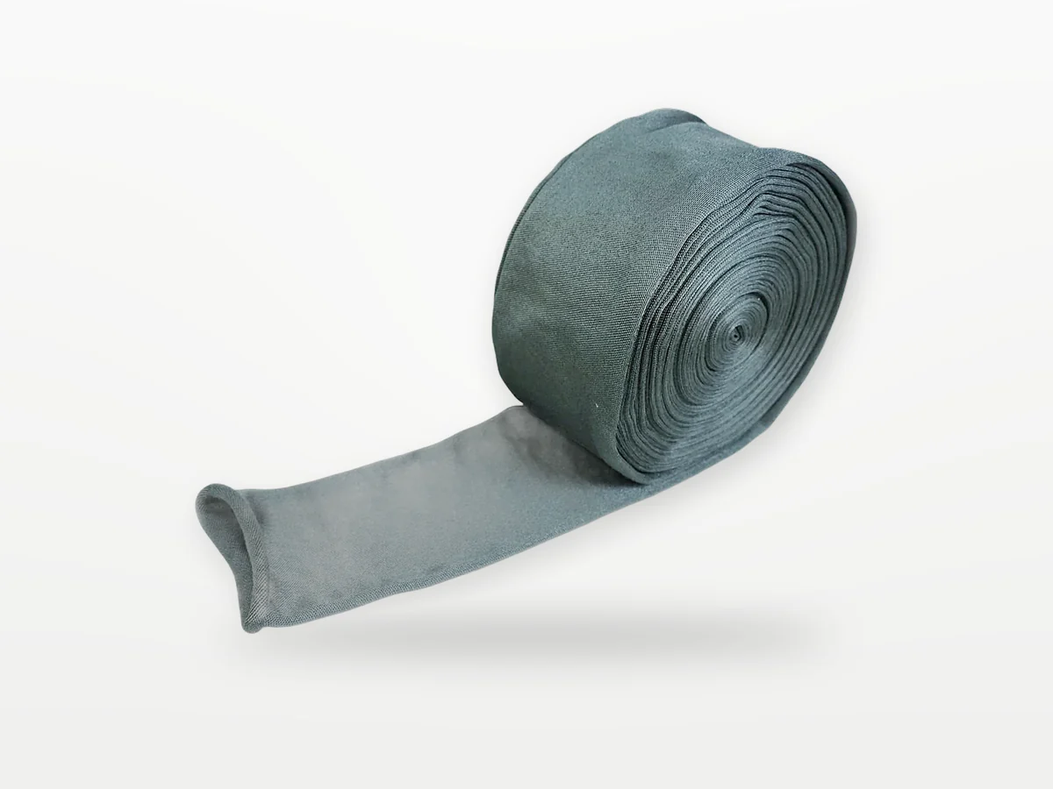
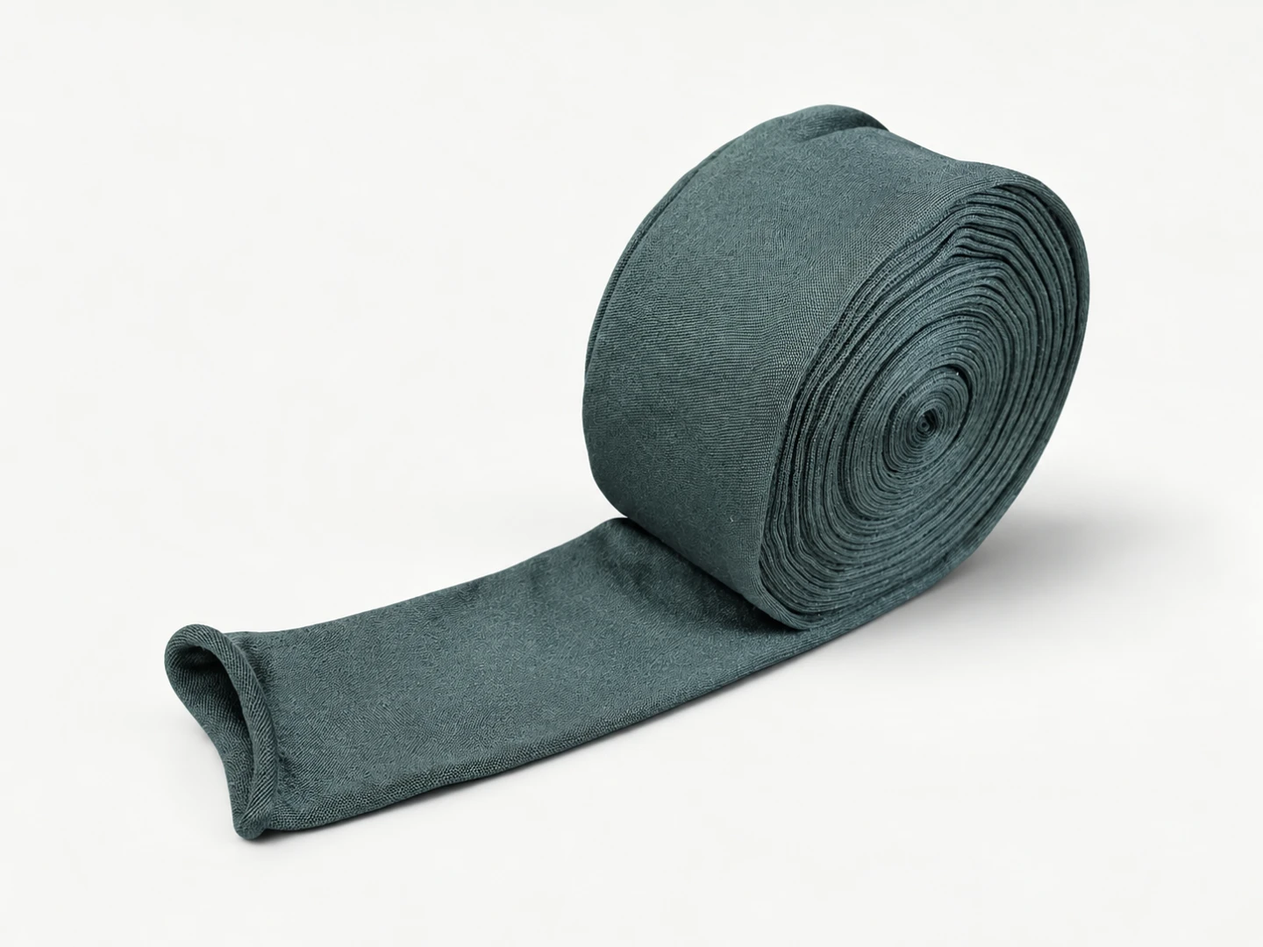
4.0 修改意见：替换 24 张精修产品图，统一背景，任何图框都不裁产品
- 第 2–6、8、9 条：产品图换成基于甲方原图的 image2 精修图（img/pc-*.webp）
- 所有产品图背景校平为统一的 #f6f6f4，图框底色同色，整件显示不裁切
- 首页首屏拼图与内页首屏横幅按实际画幅重做，产品完整、不压标题
- 行业页、文章、选型页里仍在用旧原图的位置一并换成精修图
- 玻璃方案页现场照换成调色后的版本

Claude-Session: https://claude.ai/code/session_012mtddgfNsuUzh6aTvQiDp9

Changed region(s): [[0.1233, 0.0933, 0.925, 0.9022]]

diff --git a/article-5.html b/article-5.html
@@ -10,7 +10,7 @@
 <meta property="og:type" content="website">
 <meta property="og:title" content="玻璃钢化炉上的金属纤维套管，解决的是哪三个问题 | 技术专栏 — 强纶新材">
 <meta property="og:description" content="划伤、掉屑与老化——耐高温包覆材料在玻璃深加工线上的实际价值。">
-<meta property="og:image" content="https://qianglun.netlify.app/img/rd-braid.webp">
+<meta property="og:image" content="https://qianglun.netlify.app/img/pc-thermo-braid.webp">
 <meta property="og:site_name" content="福建强纶新材料股份有限公司">
 <link rel="preconnect" href="https://fonts.googleapis.com">
 <link href="https://fonts.googleapis.com/css2?family=Noto+Sans+SC:wght@300;400;500;700&family=Noto+Serif+SC:wght@500;700;900&family=Cormorant+Garamond:ital,wght@1,500;1,600&family=Barlow+Condensed:wght@300;400;500&display=swap" rel="stylesheet">
@@ -19,7 +19,7 @@
 <link rel="stylesheet" href="theme-v4.css">
 <link rel="stylesheet" href="v5.css">
 
-<script type="application/ld+json">{"@context":"https://schema.org","@type":"TechArticle","headline":"玻璃钢化炉上的金属纤维套管，解决的是哪三个问题","datePublished":"2026-09-05","author":{"@type":"Organization","name":"福建强纶新材料股份有限公司"},"publisher":{"@type":"Organization","name":"福建强纶新材料股份有限公司","logo":{"@type":"ImageObject","url":"https://qianglun.netlify.app/img/logo.png"}},"image":"https://qianglun.netlify.app/img/rd-braid.webp","mainEntityOfPage":"https://qianglun.netlify.app/article-5.html"}</script>
+<script type="application/ld+json">{"@context":"https://schema.org","@type":"TechArticle","headline":"玻璃钢化炉上的金属纤维套管，解决的是哪三个问题","datePublished":"2026-09-05","author":{"@type":"Organization","name":"福建强纶新材料股份有限公司"},"publisher":{"@type":"Organization","name":"福建强纶新材料股份有限公司","logo":{"@type":"ImageObject","url":"https://qianglun.netlify.app/img/logo.png"}},"image":"https://qianglun.netlify.app/img/pc-thermo-braid.webp","mainEntityOfPage":"https://qianglun.netlify.app/article-5.html"}</script>
 </head>
 <body class="go">
 <svg width="0" height="0" style="position:absolute" aria-hidden="true"><defs>
@@ -66,7 +66,7 @@
     <h1>玻璃钢化炉上的金属纤维套管，解决的是哪三个问题</h1>
     <div class="art-meta"><span class="num">2026-09-05</span><i>·</i><span>强纶技术团队</span><i>·</i><span>约 5 分钟</span></div>
   </div>
-  <figure class="art-fig rv"><img src="img/rd-braid.webp" alt="金属纤维编织套管"><figcaption>金属纤维编织套管</figcaption></figure>
+  <figure class="art-fig rv"><img src="img/pc-thermo-braid.webp" alt="金属纤维编织套管"><figcaption>金属纤维编织套管</figcaption></figure>
   <div class="prose art-body rv"><p class="lede">钢化炉里的陶瓷辊道、测温探头、热风管路和钢化齿条，都要长期在高温下和玻璃直接或间接接触。包覆材料选不对，良品率就会在这些接触点上流失。</p></div>
   <div class="prose art-body rv"><h3>问题一：划伤</h3>
 <p>玻璃在高温下表面处于相对软化的状态，任何硬质或粗糙的接触面都可能留下划痕与压印。包覆材料的作用是在接触点之间加一层柔性缓冲。</p>

diff --git a/article-8.html b/article-8.html
@@ -10,7 +10,7 @@
 <meta property="og:type" content="website">
 <meta property="og:title" content="金属纤维烧结毡 vs 金属丝网：强度、精度与再生性 | 技术专栏 — 强纶新材">
 <meta property="og:description" content="两类金属滤材的结构差异，决定了它们各自适合的应用场景边界。">
-<meta property="og:image" content="https://qianglun.netlify.app/img/jlw-felt.webp">
+<meta property="og:image" content="https://qianglun.netlify.app/img/pc-media-felt.webp">
 <meta property="og:site_name" content="福建强纶新材料股份有限公司">
 <link rel="preconnect" href="https://fonts.googleapis.com">
 <link href="https://fonts.googleapis.com/css2?family=Noto+Sans+SC:wght@300;400;500;700&family=Noto+Serif+SC:wght@500;700;900&family=Cormorant+Garamond:ital,wght@1,500;1,600&family=Barlow+Condensed:wght@300;400;500&display=swap" rel="stylesheet">
@@ -19,7 +19,7 @@
 <link rel="stylesheet" href="theme-v4.css">
 <link rel="stylesheet" href="v5.css">
 
-<script type="application/ld+json">{"@context":"https://schema.org","@type":"TechArticle","headline":"金属纤维烧结毡 vs 金属丝网：强度、精度与再生性","datePublished":"2026-07-25","author":{"@type":"Organization","name":"福建强纶新材料股份有限公司"},"publisher":{"@type":"Organization","name":"福建强纶新材料股份有限公司","logo":{"@type":"ImageObject","url":"https://qianglun.netlify.app/img/logo.png"}},"image":"https://qianglun.netlify.app/img/jlw-felt.webp","mainEntityOfPage":"https://qianglun.netlify.app/article-8.html"}</script>
+<script type="application/ld+json">{"@context":"https://schema.org","@type":"TechArticle","headline":"金属纤维烧结毡 vs 金属丝网：强度、精度与再生性","datePublished":"2026-07-25","author":{"@type":"Organization","name":"福建强纶新材料股份有限公司"},"publisher":{"@type":"Organization","name":"福建强纶新材料股份有限公司","logo":{"@type":"ImageObject","url":"https://qianglun.netlify.app/img/logo.png"}},"image":"https://qianglun.netlify.app/img/pc-media-felt.webp","mainEntityOfPage":"https://qianglun.netlify.app/article-8.html"}</script>
 </head>
 <body class="go">
 <svg width="0" height="0" style="position:absolute" aria-hidden="true"><defs>
@@ -66,7 +66,7 @@
     <h1>金属纤维烧结毡 vs 金属丝网：强度、精度与再生性</h1>
     <div class="art-meta"><span class="num">2026-07-25</span><i>·</i><span>强纶技术团队</span><i>·</i><span>约 5 分钟</span></div>
   </div>
-  <figure class="art-fig rv"><img src="img/jlw-felt.webp" alt="金属纤维烧结毡卷材"><figcaption>金属纤维烧结毡卷材</figcaption></figure>
+  <figure class="art-fig rv"><img src="img/pc-media-felt.webp" alt="金属纤维烧结毡卷材"><figcaption>金属纤维烧结毡卷材</figcaption></figure>
   <div class="prose art-body rv"><p class="lede">都是金属、都能耐高温、都能反洗，但烧结毡和烧结丝网是两种完全不同的结构，适合的应用场景也不一样。</p></div>
   <div class="prose art-body rv"><h3>结构上的根本差别</h3>
 <p><strong>金属纤维烧结毡</strong>：由微米级金属纤维无纺成网后，经高温层压烧结而成。内部是三维无序的纤维网络，多层叠压形成由粗到细的<strong>孔隙梯度</strong>。</p>

diff --git a/applications.html b/applications.html
@@ -10,7 +10,7 @@
 <meta property="og:type" content="website">
 <meta property="og:title" content="应用方案 | 过滤分离 · 玻璃深加工 · 电磁屏蔽 · 航空航天 · 汽车 · 智能穿戴">
 <meta property="og:description" content="强纶金属纤维材料在七大行业的应用方案：各行业的典型痛点、推荐产品与配套服务，覆盖过滤分离、玻璃深加工、电磁屏蔽与防静电、航空航天、汽车、功能纺织与智能穿戴。">
-<meta property="og:image" content="https://qianglun.netlify.app/img/jlw-cart.webp">
+<meta property="og:image" content="https://qianglun.netlify.app/img/pc-mach-fluid.webp">
 <meta property="og:site_name" content="福建强纶新材料股份有限公司">
 <link rel="preconnect" href="https://fonts.googleapis.com">
 <link href="https://fonts.googleapis.com/css2?family=Noto+Sans+SC:wght@300;400;500;700&family=Noto+Serif+SC:wght@500;700;900&family=Cormorant+Garamond:ital,wght@1,500;1,600&family=Barlow+Condensed:wght@300;400;500&display=swap" rel="stylesheet">
@@ -67,7 +67,7 @@
   <div class="ph-k"><div><b class="num">7<sup>个</sup></b><span>覆盖行业</span></div><div><b class="num">5<sup>类</sup></b><span>产品</span></div><div><b class="num">2002<sup></sup></b><span>服务起始</span></div></div>
 </div></section><section class="sec"><div class="wrap">
   <div class="g3"><article class="mcard rv">
-  <a href="a-filtration.html" class="im"><img src="img/jlw-cart.webp" alt="过滤分离" loading="lazy"></a>
+  <a href="a-filtration.html" class="im"><img src="img/pc-mach-fluid.webp" alt="过滤分离" loading="lazy"></a>
   <div class="bd"><div class="cat">FILTRATION</div><h3>过滤分离</h3><p>化纤熔体与黏胶应用场景下，传统滤纸滤布不耐高温高压、金属网易堵塞易碎；萃取料液中的微米级乳化油又会污染后端树脂与膜。</p>
   <a class="more" href="a-filtration.html">查看方案<svg class="i"><use href="#i-arrow"/></svg></a></div>
 </article><article class="mcard rv">
@@ -79,7 +79,7 @@
   <div class="bd"><div class="cat">EMI SHIELDING</div><h3>电磁屏蔽与防静电</h3><p>涂层型导电织物在反复洗涤后屏蔽效能衰减；生产线与库房的静电积聚存在起火风险。</p>
   <a class="more" href="a-emi.html">查看方案<svg class="i"><use href="#i-arrow"/></svg></a></div>
 </article><article class="mcard rv">
-  <a href="a-aero.html" class="im"><img src="img/jlw-felt.webp" alt="航空航天与特种材料" loading="lazy"></a>
+  <a href="a-aero.html" class="im"><img src="img/pc-media-felt.webp" alt="航空航天与特种材料" loading="lazy"></a>
   <div class="bd"><div class="cat">AEROSPACE</div><h3>航空航天与特种材料</h3><p>航空航天领域对材料的减震、耐高温与可靠性要求远高于常规工业件，材料需长期稳定、批次一致。</p>
   <a class="more" href="a-aero.html">查看方案<svg class="i"><use href="#i-arrow"/></svg></a></div>
 </article><article class="mcard rv">

diff --git a/selector.html b/selector.html
@@ -106,9 +106,9 @@
   var S={m:'melt',t:'low',p:'lp',a:'mid'};
   var R={
     melt:{title:'滤材事业部 · 金属纤维烧结毡',img:'img/jl-felt.webp',desc:'适合高粘度聚合物熔体过滤，过滤面积大、可清洗再生，常用于化纤与薄膜生产线。',alt:['金属纤维烧结毡','熔体滤芯','叶片滤盘'],url:'p-felt.html'},
-    gas:{title:'机加工事业部 · 除尘滤芯',img:'img/jl-cartridge-pleat.webp',desc:'高温气体除尘与气固分离，耐温耐腐蚀、可反吹清灰、可反复再生。',alt:['除尘滤芯','烧结毡','金属滤袋'],url:'p-element.html'},
+    gas:{title:'机加工事业部 · 除尘滤芯',img:'img/pc-mach-dust.webp',desc:'高温气体除尘与气固分离，耐温耐腐蚀、可反吹清灰、可反复再生。',alt:['除尘滤芯','烧结毡','金属滤袋'],url:'p-element.html'},
     liquid:{title:'机加工事业部 · 工业流体过滤滤芯',img:'img/jl-cartridge-sinter.webp',desc:'水与料液精滤，整体烧结成型、机械强度高，可清洗再生。',alt:['水滤芯','折波滤芯','烧结毡'],url:'p-element.html'},
-    oil:{title:'净化事业部 · 强纶收油系统',img:'img/fts-cover.webp',desc:'纯物理聚结除油，不加破乳药剂，油份可回收复用。',alt:['罐式收油系统','槽式收油系统','槽体改造'],url:'p-equipment.html'}
+    oil:{title:'净化事业部 · 强纶收油系统',img:'img/pc-purify-tank.webp',desc:'纯物理聚结除油，不加破乳药剂，油份可回收复用。',alt:['罐式收油系统','槽式收油系统','槽体改造'],url:'p-equipment.html'}
   };
   var $=function(id){return document.getElementById(id)};
   function render(){

diff --git a/a-filtration.html b/a-filtration.html
@@ -10,7 +10,7 @@
 <meta property="og:type" content="website">
 <meta property="og:title" content="过滤分离 | 应用方案 — 强纶新材">
 <meta property="og:description" content="过滤分离行业的金属纤维应用方案：化纤熔体与黏胶应用场景下，传统滤纸滤布不耐高温高压、金属网易堵塞易碎；萃取料液中的微米级乳化油又会污染后端树脂与膜。……相关产品：金属纤维烧结毡、复合丝网烧结毡、特种材质烧结毡、工业流体过滤滤芯、液压滤芯、除尘滤芯等。">
-<meta property="og:image" content="https://qianglun.netlify.app/img/jlw-cart.webp">
+<meta property="og:image" content="https://qianglun.netlify.app/img/pc-mach-fluid.webp">
 <meta property="og:site_name" content="福建强纶新材料股份有限公司">
 <link rel="preconnect" href="https://fonts.googleapis.com">
 <link href="https://fonts.googleapis.com/css2?family=Noto+Sans+SC:wght@300;400;500;700&family=Noto+Serif+SC:wght@500;700;900&family=Cormorant+Garamond:ital,wght@1,500;1,600&family=Barlow+Condensed:wght@300;400;500&display=swap" rel="stylesheet">
@@ -73,7 +73,7 @@
       <h3>典型应用</h3>
       <p>广东芳源、衢州华友、江西铜业、格林美、湖南邦普、中国恩菲、紫金铜业等</p>
     </div>
-    <figure class="solimg contain rv d1"><img src="img/jlw-cart.webp" alt="过滤分离" loading="lazy"></figure>
+    <figure class="solimg rv d1"><img src="img/pc-mach-fluid.webp" alt="过滤分离" loading="lazy"></figure>
   </div>
 
   <div class="sec-h" style="margin:72px 0 26px"><h2>相关产品</h2><p>以下产品均可用于过滤分离，点击查看产品详情。</p></div>

diff --git a/a-aero.html b/a-aero.html
@@ -10,7 +10,7 @@
 <meta property="og:type" content="website">
 <meta property="og:title" content="航空航天与特种材料 | 应用方案 — 强纶新材">
 <meta property="og:description" content="航空航天与特种材料行业的金属纤维应用方案：航空航天领域对材料的减震、耐高温与可靠性要求远高于常规工业件，材料需长期稳定、批次一致。……相关产品：金属纤维烧结毡、特种材质烧结毡、耐高温金属纤维毡等。">
-<meta property="og:image" content="https://qianglun.netlify.app/img/jlw-felt.webp">
+<meta property="og:image" content="https://qianglun.netlify.app/img/pc-media-felt.webp">
 <meta property="og:site_name" content="福建强纶新材料股份有限公司">
 <link rel="preconnect" href="https://fonts.googleapis.com">
 <link href="https://fonts.googleapis.com/css2?family=Noto+Sans+SC:wght@300;400;500;700&family=Noto+Serif+SC:wght@500;700;900&family=Cormorant+Garamond:ital,wght@1,500;1,600&family=Barlow+Condensed:wght@300;400;500&display=swap" rel="stylesheet">
@@ -73,7 +73,7 @@
       <h3>典型应用</h3>
       <p>航空航天领域配套；飞机、舰船燃油过滤与液压系统过滤</p>
     </div>
-    <figure class="solimg contain rv d1"><img src="img/jlw-felt.webp" alt="航空航天与特种材料" loading="lazy"></figure>
+    <figure class="solimg rv d1"><img src="img/pc-media-felt.webp" alt="航空航天与特种材料" loading="lazy"></figure>
   </div>
 
   <div class="sec-h" style="margin:72px 0 26px"><h2>相关产品</h2><p>以下产品均可用于航空航天与特种材料，点击查看产品详情。</p></div>

diff --git a/v5.css b/v5.css
@@ -486,3 +486,10 @@ h3 .hcnt{background:#f1f2f4!important;opacity:.75}
 .jobhero-ph img{width:100%;height:100%;object-fit:cover;object-position:center 42%;display:block}
 .jobhero-ph figcaption{position:absolute;left:14px;bottom:14px;background:rgba(255,255,255,.92);border-radius:999px;padding:6px 14px;font-size:13px;color:#33363b}
 @media(max-width:960px){.jobhero-g{grid-template-columns:1fr;gap:28px}}
+
+/* 4.0：精修产品图（img/pc-*）背景已统一为 #f6f6f4。任何形状的图框里都整件显示、不裁切，图框底色与图片背景一致，看不出边界 */
+img[src*="img/pc-"][src][src]{object-fit:contain!important;background:#f6f6f4!important;padding:0!important}
+.im:has(>img[src*="img/pc-"]),figure:has(>img[src*="img/pc-"]),.solimg:has(>img[src*="img/pc-"]){background:#f6f6f4!important}
+.solimg:has(>img[src*="img/pc-"]){border:0}
+/* 4.0：内页首屏右侧是产品横幅时，标题不压到产品上 */
+@media(min-width:1100px){.ph.has-bg h1{max-width:840px}.ph.has-bg .ph-lead{max-width:34em}}

diff --git a/index.html b/index.html
@@ -93,8 +93,8 @@
     </div>
     <div class="mosaic">
       <figure><img src="img/pc-media-felt-tall.webp" alt="金属纤维烧结毡"><figcaption>金属纤维烧结毡</figcaption></figure>
-      <figure><img src="img/pc-mach-fluid.webp" alt="金属滤芯"><figcaption>金属滤芯</figcaption></figure>
-      <figure><img src="img/pc-yarn-spun.webp" alt="金属纤维纱线"><figcaption>金属纤维纱线</figcaption></figure>
+      <figure><img src="img/pc-mach-fluid-sq.webp" alt="金属滤芯"><figcaption>金属滤芯</figcaption></figure>
+      <figure><img src="img/pc-yarn-spun-sq.webp" alt="金属纤维纱线"><figcaption>金属纤维纱线</figcaption></figure>
     </div>
   </div>
 </section>

diff --git a/_build/img_tools/variants.py b/_build/img_tools/variants.py
@@ -1,0 +1,144 @@
+# -*- coding: utf-8 -*-
+"""精修产品图 → 各种画幅的衍生图（2026.11.27 甲方 4.0）
+
+精修图是 4:3 的影棚照。网站上有些位置不是 4:3（首页首屏拼图、内页首屏横幅、16:9 卡片），
+直接铺满会把产品裁掉一截。这里不裁产品：先找到产品的外接框，把整件产品缩放到目标画幅的安全区内，
+画幅不够的地方用原图自身的背景向外延伸（边缘复制 + 大半径模糊 + 羽化接缝），看不出拼接。
+
+用法：python3 variants.py        # 生成全部衍生图
+"""
+import os
+import numpy as np
+import cv2
+
+ROOT = os.path.abspath(os.path.join(os.path.dirname(__file__), '..', '..'))
+IMG = os.path.join(ROOT, 'img')
+
+
+def read(key):
+    im = cv2.imread(os.path.join(IMG, key + '.webp'), cv2.IMREAD_COLOR)
+    assert im is not None, key
+    return im
+
+
+def product_box(im):
+    """产品（含投影）的外接框：与四周背景亮度差、饱和度、边缘三者取并集"""
+    h, w = im.shape[:2]
+    lab = cv2.cvtColor(im, cv2.COLOR_BGR2LAB).astype(np.float32)
+    L = lab[..., 0]
+    border = np.concatenate([L[:12].ravel(), L[-12:].ravel(), L[:, :12].ravel(), L[:, -12:].ravel()])
+    bg = np.median(border)
+    chroma = np.hypot(lab[..., 1] - 128, lab[..., 2] - 128)
+    edges = cv2.Canny(cv2.GaussianBlur(im, (0, 0), 1.2), 40, 110) > 0
+    m = (np.abs(L - bg) > 26) | (chroma > 14) | edges
+    m = cv2.morphologyEx(m.astype(np.uint8), cv2.MORPH_OPEN, np.ones((5, 5), np.uint8))
+    n, lab_, stats, _ = cv2.connectedComponentsWithStats(m, 8)
+    keep = np.zeros_like(m)
+    for i in range(1, n):
+        if stats[i, cv2.CC_STAT_AREA] > h * w * 0.0006:
+            keep[lab_ == i] = 1
+    ys, xs = np.where(keep > 0)
+    return xs.min(), ys.min(), xs.max() + 1, ys.max() + 1
+
+
+BG = (244, 246, 246)   # 统一背景色（BGR），接近页面的浅灰白
+
+
+def product_mask(im):
+    """产品与较深投影的蒙版（1=产品）。只用来把背景和产品分开估计光照，不用来抠图"""
+    lab = cv2.cvtColor(im, cv2.COLOR_BGR2LAB).astype(np.float32)
+    L = lab[..., 0]
+    bgL = cv2.GaussianBlur(cv2.medianBlur(L.astype(np.uint8), 5).astype(np.float32), (0, 0), 3)
+    border = np.concatenate([L[:12].ravel(), L[-12:].ravel(), L[:, :12].ravel(), L[:, -12:].ravel()])
+    chroma = np.hypot(lab[..., 1] - 128, lab[..., 2] - 128)
+    edges = cv2.Canny(cv2.GaussianBlur(im, (0, 0), 1.2), 30, 90) > 0
+    m = (bgL < np.percentile(border, 20) - 22) | (chroma > 16) | edges
+    m = cv2.morphologyEx(m.astype(np.uint8), cv2.MORPH_CLOSE, np.ones((25, 25), np.uint8))
+    # 填实内部孔洞（亮色线盘、金属高光）
+    ff = m.copy(); hh, ww = m.shape
+    pad = cv2.copyMakeBorder(ff, 1, 1, 1, 1, cv2.BORDER_CONSTANT, value=0)
+    cv2.floodFill(pad, None, (0, 0), 2)
+    m = (pad[1:-1, 1:-1] != 2).astype(np.uint8)
+    return cv2.dilate(m, np.ones((21, 21), np.uint8))
+
+
+def flatten(im):
+    """把影棚背景的明暗渐变和偏色校平成统一的 BG：按背景像素估计光照场，整图做平场校正。
+    产品与投影的明暗关系保留（它们跟着同一个平滑增益走），所以不是抠图，边缘不会发虚。"""
+    m = product_mask(im)
+    h, w = im.shape[:2]
+    sw = 180; sh = int(round(h * sw / w))          # 光照场很平滑，在小图上估计再放大
+    xs = cv2.resize(im, (sw, sh), interpolation=cv2.INTER_AREA).astype(np.float32)
+    bgw = (cv2.resize(m, (sw, sh), interpolation=cv2.INTER_AREA) == 0).astype(np.float32)
+    field = np.zeros_like(xs); wsum = np.zeros((sh, sw), np.float32)
+    for sig, wt in ((sw * 0.03, 1.0), (sw * 0.12, 0.05), (sw * 0.5, 0.002)):
+        field += cv2.GaussianBlur(xs * bgw[..., None], (0, 0), sig) * wt
+        wsum += cv2.GaussianBlur(bgw, (0, 0), sig) * wt
+    field /= np.maximum(wsum, 1e-6)[..., None]
+    gain = np.clip(np.array(BG, np.float32)[None, None, :] / np.maximum(field, 1), 0.85, 1.35)
+    gain = cv2.resize(cv2.GaussianBlur(gain, (0, 0), 1.2), (w, h), interpolation=cv2.INTER_CUBIC)
+    return np.clip(im.astype(np.float32) * gain, 0, 255).astype(np.uint8)
+
+
+def _ramp(n, lo, hi, a, b):
+    """一维权重：画布坐标 [lo,hi) 是原图；从原图边缘到产品外接框 [a,b) 之间由 0 平滑升到 1。原图边缘贴着画布边缘的一侧不需要过渡"""
+    x = np.arange(n, dtype=np.float32)
+    w = np.ones(n, np.float32)
+    if lo > 0:
+        m = max(a - lo, 6)
+        w = np.minimum(w, np.clip((x - lo) / m, 0, 1))
+    if hi < n:
+        m = max(hi - b, 6)
+        w = np.minimum(w, np.clip((hi - 1 - x) / m, 0, 1))
+    return w * w * (3 - 2 * w)
+
+
+def extend(im, W, H, scale, ox, oy, box):
+    """把 im 缩放 scale 倍后放到 W×H 画布的 (ox, oy)，空出来的地方用背景延伸补齐。box 是产品外接框（原图坐标）"""
+    sw, sh = int(round(im.shape[1] * scale)), int(round(im.shape[0] * scale))
+    src = cv2.resize(im, (sw, sh), interpolation=cv2.INTER_AREA if scale < 1 else cv2.INTER_LANCZOS4)
+    x0, y0 = max(ox, 0), max(oy, 0)
+    x1, y1 = min(ox + sw, W), min(oy + sh, H)
+    vis = src[y0 - oy:y1 - oy, x0 - ox:x1 - ox]
+    pad = cv2.copyMakeBorder(vis, y0, H - y1, x0, W - x1, cv2.BORDER_REPLICATE)
+    if (x0, y0, x1, y1) == (0, 0, W, H):
+        return pad
+    soft = np.empty_like(pad); soft[:] = BG      # 底图已做过平场校正，背景就是统一色，直接用它延伸
+    # 接缝：从原图边缘到产品外接框之间整段渐变，背景的明暗过渡自然，不留方框
+    bx0, by0, bx1, by1 = [v * scale for v in box]
+    wx = _ramp(W, x0, x1, ox + bx0, ox + bx1)
+    wy = _ramp(H, y0, y1, oy + by0, oy + by1)
+    mask = np.minimum(wx[None, :], wy[:, None])[..., None]
+    out = pad.astype(np.float32) * mask + soft.astype(np.float32) * (1 - mask)
+    rng = np.random.default_rng(7)   # 轻微颗粒，避免大面积模糊出现色带
+    out += rng.normal(0, 0.9, out.shape[:2])[..., None] * (1 - mask)
+    return np.clip(out, 0, 255).astype(np.uint8)
+
+
+def variant(key, out, W, H, max_w, max_h, cx=0.5, cy=0.5, quality=88, lift=0):
+    """整件产品落在画布的安全区内：产品外接框宽 ≤ W*max_w、高 ≤ H*max_h，中心在 (cx, cy)"""
+    im = read(key)
+    bx0, by0, bx1, by1 = product_box(im)
+    bw, bh = bx1 - bx0, by1 - by0
+    scale = min(W * max_w / bw, H * max_h / bh)
+    ox = int(round(W * cx - (bx0 + bw / 2) * scale))
+    oy = int(round(H * cy - (by0 + bh / 2) * scale))
+    res = extend(im, W, H, scale, ox, oy, (bx0, by0, bx1, by1))
+    if lift:   # 横幅背景提亮到接近页面底色，产品同步略提亮
+        g = cv2.cvtColor(res, cv2.COLOR_BGR2GRAY)
+        bgv = float(np.median(np.concatenate([g[:8].ravel(), g[-8:].ravel()])))
+        res = np.clip(res.astype(np.float32) * min(lift / bgv, 1.07), 0, 255).astype(np.uint8)
+    cv2.imwrite(os.path.join(IMG, out + '.webp'), res, [cv2.IMWRITE_WEBP_QUALITY, quality])
+    print(f'{out}: {W}x{H} scale={scale:.2f} box={bw}x{bh}')
+
+
+if __name__ == '__main__':
+    # 首页首屏拼图：左侧竖幅（桌面约 0.57，手机约 0.49）与右侧两格（约 0.93–1.02）
+    variant('pc-media-felt', 'pc-media-felt-tall', 1000, 2000, 0.86, 0.5, cy=0.46)
+    variant('pc-mach-fluid', 'pc-mach-fluid-sq', 1200, 1200, 0.8, 0.74, cy=0.47)
+    variant('pc-yarn-spun', 'pc-yarn-spun-sq', 1200, 1200, 0.8, 0.74, cy=0.47)
+    # 内页首屏横幅（约 1440×416，顶部 80px 被导航栏盖住；宽屏时上下还会再裁掉一些）：
+    # 产品只占画布一半高度、中心偏下、靠右，任何宽度下都完整，也不压到左侧标题
+    variant('pc-mach-fluid', 'hero-jl-cart', 2400, 700, 0.25, 0.5, cx=0.835, cy=0.6)
+    variant('pc-media-felt', 'hero-jl-felt', 2400, 700, 0.25, 0.5, cx=0.835, cy=0.6)
+    variant('pc-yarn-spun', 'hero-jl-yarn', 2400, 700, 0.25, 0.5, cx=0.835, cy=0.6)

diff --git a/_build/build_apps.py b/_build/build_apps.py
@@ -8,7 +8,7 @@ from divisions import DIVS
 PBY = {(d["key"], p["id"]): (d, p) for d in DIVS for p in d["products"]}
 
 IND = [
- dict(f="a-filtration.html", gal=[("img/fts-site-huayou.webp","大流量槽体方案"),("img/fts-bamo-03.webp","槽体与管路"),("img/fts-tank-02.webp","罐式收油系统"),("img/fts-scene-03.webp","过滤与除油联合装置")], en="FILTRATION", zh="过滤分离", img="img/jlw-cart.webp", hero="img/fts-scene-01.webp",
+ dict(f="a-filtration.html", gal=[("img/fts-site-huayou.webp","大流量槽体方案"),("img/fts-bamo-03.webp","槽体与管路"),("img/fts-tank-02.webp","罐式收油系统"),("img/fts-scene-03.webp","过滤与除油联合装置")], en="FILTRATION", zh="过滤分离", img="img/pc-mach-fluid.webp", hero="img/fts-scene-01.webp",
       claim="高温、高粘、强腐蚀，<em>常规滤材扛不住的地方</em>",
       pain="化纤熔体与黏胶应用场景下，传统滤纸滤布不耐高温高压、金属网易堵塞易碎；萃取料液中的微米级乳化油又会污染后端树脂与膜。",
       sol="以金属纤维烧结毡/烧结网为滤材的滤芯、滤盘与成套过滤器，配合 FTS 收油系统完成预除油，形成「除油 + 精滤」的完整链条。",
@@ -68,7 +68,7 @@ IND = [
       cases="催化剂回收、医药食品饮料过滤、燃气燃烧器、储热式热交换器多孔材料"),
 ]
 
-REL = {'a-filtration.html': {'prods': [('media', 'felt'), ('media', 'composite'), ('media', 'alloy'), ('machining', 'fluid'), ('machining', 'hydraulic'), ('machining', 'dust'), ('machining', 'air'), ('machining', 'parts'), ('purify', 'tank'), ('purify', 'trough'), ('purify', 'retrofit'), ('yarn', 'thread')], 'img': 'img/jlw-cart.webp', 'hero': 'img/hero-jl-cart.webp'}, 'a-glass.html': {'prods': [('thermo', 'elastic'), ('thermo', 'braid'), ('thermo', 'tape'), ('thermo', 'rope'), ('thermo', 'felt'), ('thermo', 'thread'), ('yarn', 'tape'), ('yarn', 'cloth')], 'img': 'img/sleeve-06.webp', 'hero': 'img/yarn-glassbelt.webp'}, 'a-emi.html': {'prods': [('yarn', 'spun'), ('yarn', 'thread'), ('yarn', 'cloth'), ('yarn', 'tape'), ('thermo', 'braid'), ('thermo', 'tape')], 'img': 'img/yarn-cloth.webp', 'hero': 'img/hero-jl-blend.webp'}, 'a-aero.html': {'prods': [('media', 'felt'), ('media', 'alloy'), ('thermo', 'felt')], 'img': 'img/jlw-felt.webp', 'hero': 'img/hero-jl-felt.webp'}, 'a-auto.html': {'prods': [('yarn', 'thread'), ('yarn', 'coat'), ('yarn', 'cloth'), ('thermo', 'rope')], 'img': 'img/yarn-carseat.webp', 'hero': 'img/hero-jl-yarn.webp'}, 'a-textile.html': {'prods': [('yarn', 'thread'), ('yarn', 'coat'), ('yarn', 'spun'), ('yarn', 'fiber'), ('yarn', 'cloth'), ('thermo', 'thread')], 'img': 'img/yarn-wearable.webp', 'hero': 'img/hero-jl-yarn.webp'}, 'a-other.html': {'prods': [('media', 'felt'), ('media', 'alloy'), ('yarn', 'fiber'), ('yarn', 'thread'), ('yarn', 'cloth'), ('thermo', 'felt')], 'img': 'img/other-network.webp', 'hero': 'img/other-network.webp'}}
+REL = {'a-filtration.html': {'prods': [('media', 'felt'), ('media', 'composite'), ('media', 'alloy'), ('machining', 'fluid'), ('machining', 'hydraulic'), ('machining', 'dust'), ('machining', 'air'), ('machining', 'parts'), ('purify', 'tank'), ('purify', 'trough'), ('purify', 'retrofit'), ('yarn', 'thread')], 'img': 'img/pc-mach-fluid.webp', 'hero': 'img/hero-jl-cart.webp'}, 'a-glass.html': {'prods': [('thermo', 'elastic'), ('thermo', 'braid'), ('thermo', 'tape'), ('thermo', 'rope'), ('thermo', 'felt'), ('thermo', 'thread'), ('yarn', 'tape'), ('yarn', 'cloth')], 'img': 'img/sleeve-06.webp', 'hero': 'img/yarn-glassbelt.webp'}, 'a-emi.html': {'prods': [('yarn', 'spun'), ('yarn', 'thread'), ('yarn', 'cloth'), ('yarn', 'tape'), ('thermo', 'braid'), ('thermo', 'tape')], 'img': 'img/yarn-cloth.webp', 'hero': 'img/hero-jl-blend.webp'}, 'a-aero.html': {'prods': [('media', 'felt'), ('media', 'alloy'), ('thermo', 'felt')], 'img': 'img/pc-media-felt.webp', 'hero': 'img/hero-jl-felt.webp'}, 'a-auto.html': {'prods': [('yarn', 'thread'), ('yarn', 'coat'), ('yarn', 'cloth'), ('thermo', 'rope')], 'img': 'img/yarn-carseat.webp', 'hero': 'img/hero-jl-yarn.webp'}, 'a-textile.html': {'prods': [('yarn', 'thread'), ('yarn', 'coat'), ('yarn', 'spun'), ('yarn', 'fiber'), ('yarn', 'cloth'), ('thermo', 'thread')], 'img': 'img/yarn-wearable.webp', 'hero': 'img/hero-jl-yarn.webp'}, 'a-other.html': {'prods': [('media', 'felt'), ('media', 'alloy'), ('yarn', 'fiber'), ('yarn', 'thread'), ('yarn', 'cloth'), ('thermo', 'felt')], 'img': 'img/other-network.webp', 'hero': 'img/other-network.webp'}}
 for _i in IND:
     _i.update(REL[_i['f']])
 
@@ -86,7 +86,7 @@ w('applications.html', head(
     "应用方案 | 过滤分离 · 玻璃深加工 · 电磁屏蔽 · 航空航天 · 汽车 · 智能穿戴",
     "强纶金属纤维材料在七大行业的应用方案：各行业的典型痛点、推荐产品与配套服务，覆盖过滤分离、玻璃深加工、电磁屏蔽与防静电、航空航天、汽车、功能纺织与智能穿戴。",
     "金属纤维应用,过滤分离方案,玻璃深加工,电磁屏蔽,防静电,航空航天材料,智能穿戴发热",
-    "applications.html", og_img="img/jlw-cart.webp")
+    "applications.html", og_img="img/pc-mach-fluid.webp")
  + header('applications.html')
  + crumb([("应用方案", None)])
  + page_hero("01", "SOLUTIONS", "方案总览",
@@ -99,7 +99,7 @@ w('applications.html', head(
  + ENDCTA + footer())
 
 # 白底产品图整张显示（不裁切）；现场照片铺满 4:3 画框
-SOL_CONTAIN = {"img/jlw-cart.webp", "img/jlw-felt.webp", "img/media-09.webp", "img/yarn-wearable.webp"}
+SOL_CONTAIN = {"img/media-09.webp", "img/yarn-wearable.webp"}
 
 def rel_cards(i):
     out = ""

diff --git a/_build/img_tools/apply_retouched.py b/_build/img_tools/apply_retouched.py
@@ -1,0 +1,25 @@
+# -*- coding: utf-8 -*-
+"""Put the image2-retouched photos into the site as img/pc-*.webp (4:3, 1600x1200) and keep numbered masters."""
+import glob, os, shutil
+from PIL import Image
+SRC = '/mnt/user-data/uploads/修改过后的图'
+SITE = '/home/claude/qianglun/img'
+MAP = {  # 编号: (image2 文件名前缀, 网站文件名)
+ 1:('fdd09b','pc-media-felt'), 2:('3fb730','pc-media-alloy'), 3:('717758','pc-mach-dust'), 4:('c97829','pc-mach-parts'),
+ 5:('ba9058','pc-purify-retrofit'), 6:('dd7f94','pc-purify-trough'), 7:('ddcde2','pc-purify-tank'), 8:('ca1842','pc-mach-hydraulic'),
+ 9:('f27c0e','pc-mach-air'), 10:('b93299','pc-mach-fluid'), 11:('173c13','pc-media-composite'), 12:('0b3d72','pc-yarn-fiber'),
+ 13:('2d34a1','pc-yarn-spun'), 14:('b94ce4','pc-yarn-thread'), 15:('2c4900','pc-yarn-coat'), 16:('0b01e6','pc-yarn-tape'),
+ 17:('e3b770','pc-yarn-cloth'), 18:('ef6d63','pc-thermo-tape'), 19:('aff736','pc-thermo-elastic'), 20:('cf6137','pc-thermo-braid'),
+ 21:('1d7db2','pc-thermo-rope'), 22:('12aa40','pc-thermo-felt'), 23:('a6c1b6','pc-thermo-thread'), 24:('5586fe','sleeve-06'),
+}
+if __name__ == '__main__':
+    for n, (pre, key) in MAP.items():
+        f = glob.glob(f'{SRC}/Image2-{pre}*.png'); assert len(f) == 1, (n, pre, f)
+        im = Image.open(f[0]).convert('RGB')
+        im.save(f'/home/claude/qw/final/{n:02d}_{key}.png')
+        if key.startswith('pc-'):
+            assert abs(im.width / im.height - 4 / 3) < 0.01, im.size
+            im.resize((1440, 1080), Image.LANCZOS).save(f'{SITE}/{key}.webp', quality=88, method=6)
+        else:
+            im.save(f'{SITE}/{key}.webp', quality=86, method=6)
+        print(n, key, im.size, os.path.getsize(f'{SITE}/{key}.webp') // 1024, 'KB')

diff --git a/_build/build_select.py b/_build/build_select.py
@@ -56,9 +56,9 @@ w('selector.html', head(
   var S={{m:'melt',t:'low',p:'lp',a:'mid'}};
   var R={{
     melt:{{title:'滤材事业部 · 金属纤维烧结毡',img:'img/jl-felt.webp',desc:'适合高粘度聚合物熔体过滤，过滤面积大、可清洗再生，常用于化纤与薄膜生产线。',alt:['金属纤维烧结毡','熔体滤芯','叶片滤盘'],url:'p-felt.html'}},
-    gas:{{title:'机加工事业部 · 除尘滤芯',img:'img/jl-cartridge-pleat.webp',desc:'高温气体除尘与气固分离，耐温耐腐蚀、可反吹清灰、可反复再生。',alt:['除尘滤芯','烧结毡','金属滤袋'],url:'p-element.html'}},
+    gas:{{title:'机加工事业部 · 除尘滤芯',img:'img/pc-mach-dust.webp',desc:'高温气体除尘与气固分离，耐温耐腐蚀、可反吹清灰、可反复再生。',alt:['除尘滤芯','烧结毡','金属滤袋'],url:'p-element.html'}},
     liquid:{{title:'机加工事业部 · 工业流体过滤滤芯',img:'img/jl-cartridge-sinter.webp',desc:'水与料液精滤，整体烧结成型、机械强度高，可清洗再生。',alt:['水滤芯','折波滤芯','烧结毡'],url:'p-element.html'}},
-    oil:{{title:'净化事业部 · 强纶收油系统',img:'img/fts-cover.webp',desc:'纯物理聚结除油，不加破乳药剂，油份可回收复用。',alt:['罐式收油系统','槽式收油系统','槽体改造'],url:'p-equipment.html'}}
+    oil:{{title:'净化事业部 · 强纶收油系统',img:'img/pc-purify-tank.webp',desc:'纯物理聚结除油，不加破乳药剂，油份可回收复用。',alt:['罐式收油系统','槽式收油系统','槽体改造'],url:'p-equipment.html'}}
   }};
   var $=function(id){{return document.getElementById(id)}};
   function render(){{
